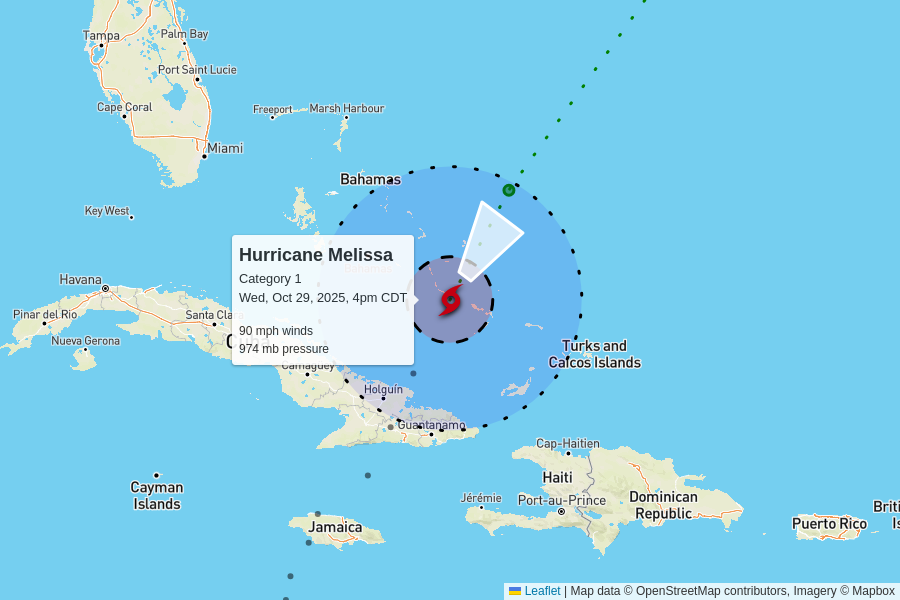
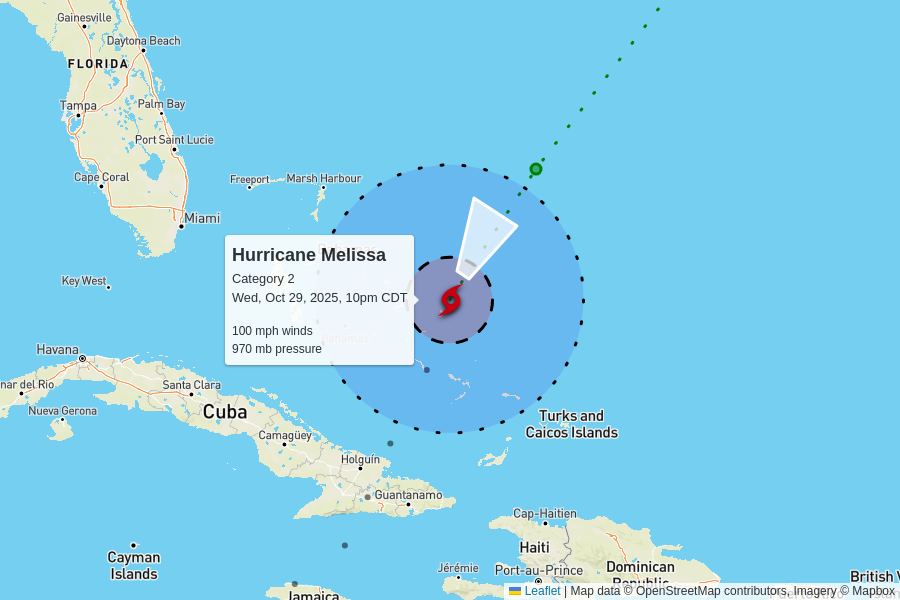
automatic update

diff --git a/docs/index.html b/docs/index.html
@@ -99,10 +99,10 @@
 
     <table>
       <tr>
-        <td colspan="6" class="storm category-1" >
+        <td colspan="6" class="storm category-2" >
           <h2>
-            Hurricane Melissa - Category 1
-            <p class="updated">last updated <span data-time>2025-10-29T21:00:00.000Z</span></p>
+            Hurricane Melissa - Category 2
+            <p class="updated">last updated <span data-time>2025-10-30T03:00:00.000Z</span></p>
           </h2>
         </td>
       </tr>
@@ -117,12 +117,12 @@
       </tr>
       <tr>
         <td class="spacer"></td>
-        <td>90 mph<br>-10 mph since last update</td>
-        <td>974 mb<br>0 mb since last update</td>
+        <td>100 mph<br>+10 mph since last update</td>
+        <td>970 mb<br>-4 mb since last update</td>
         <td>
-          16 mph to the northeast
+          21 mph to the north-northeast
           <br/>
-          <span style="display: inline-block; font-size: 1.5em; transform: rotate(35deg);">↑</span>
+          <span style="display: inline-block; font-size: 1.5em; transform: rotate(30deg);">↑</span>
         </td>
         <td><a href="https://raw.githubusercontent.com/mgwalker/atlantic-hurricanes/main/data/csv/AL132025.csv">AL132025.csv</a></td>
         <td><a href="https://www.nhc.noaa.gov/archive/2025/MELISSA.shtml?">NHC advisories</a></td>
